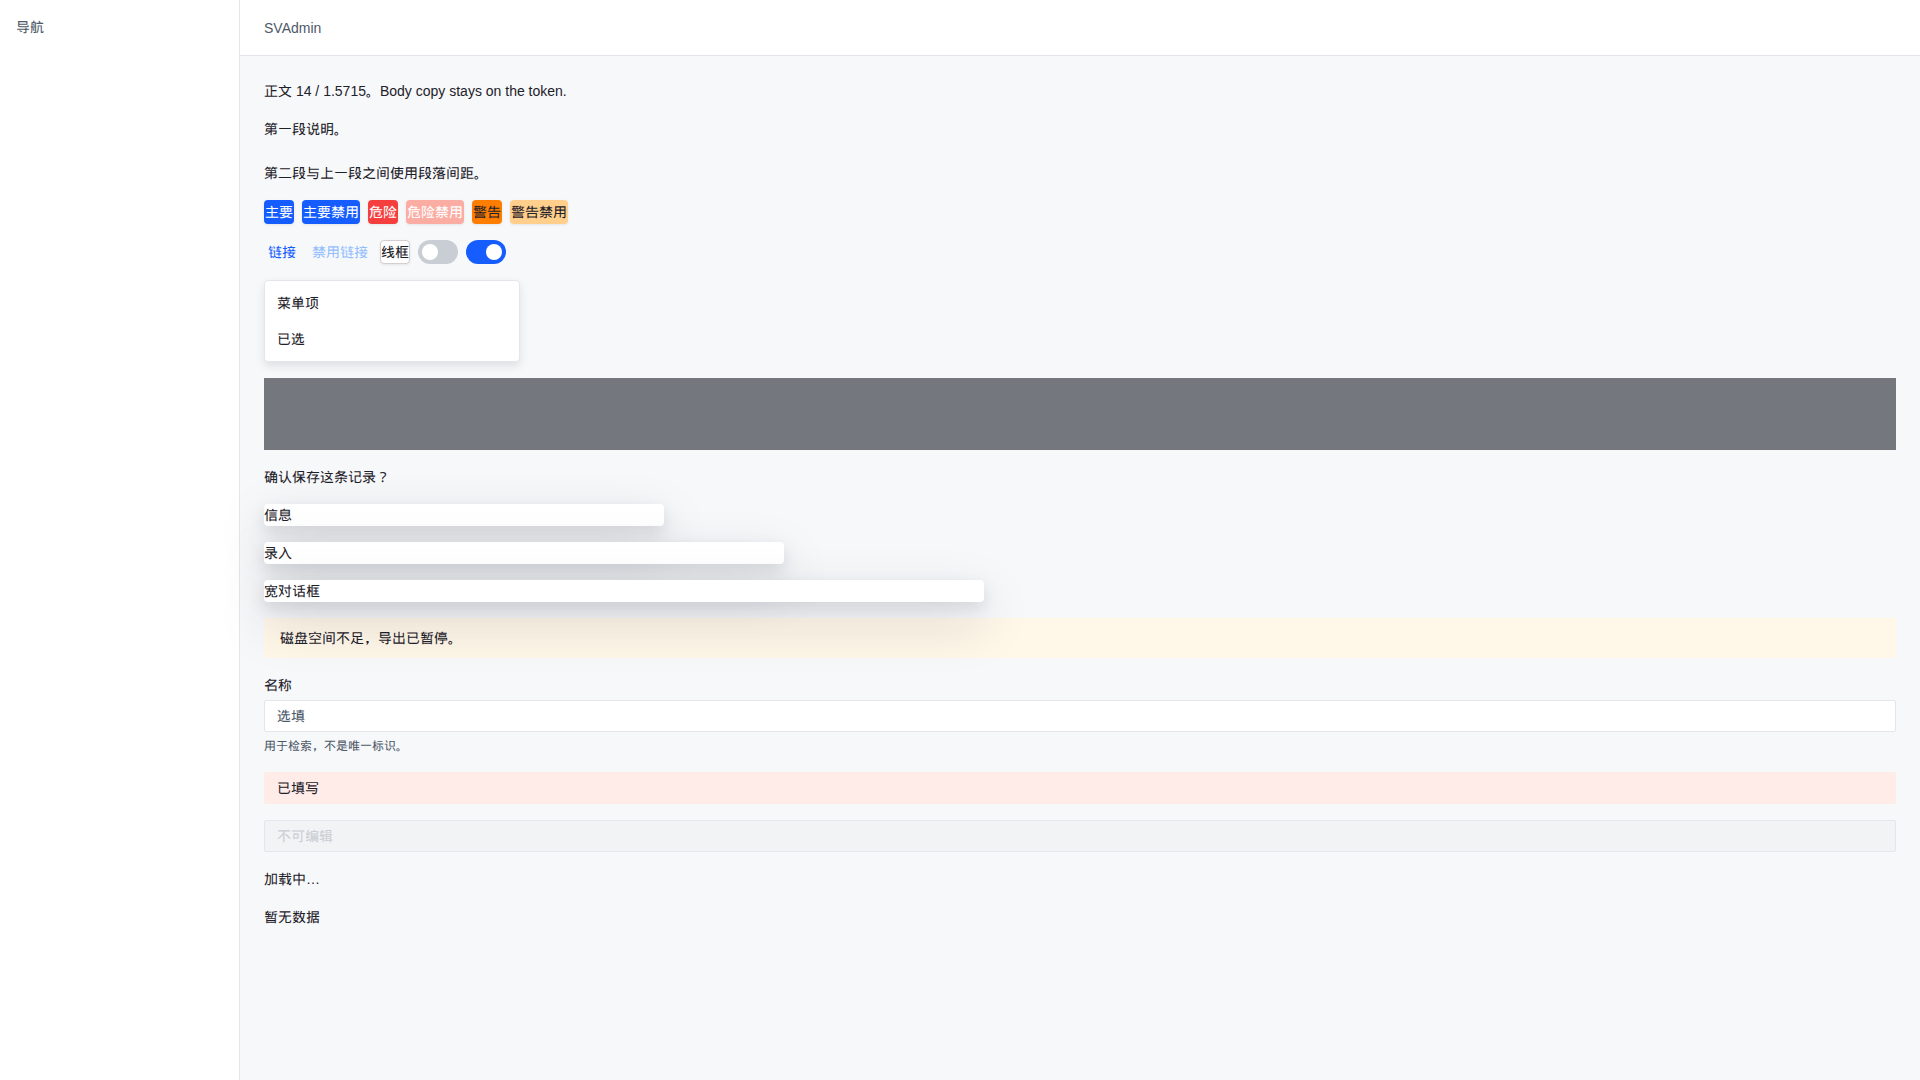
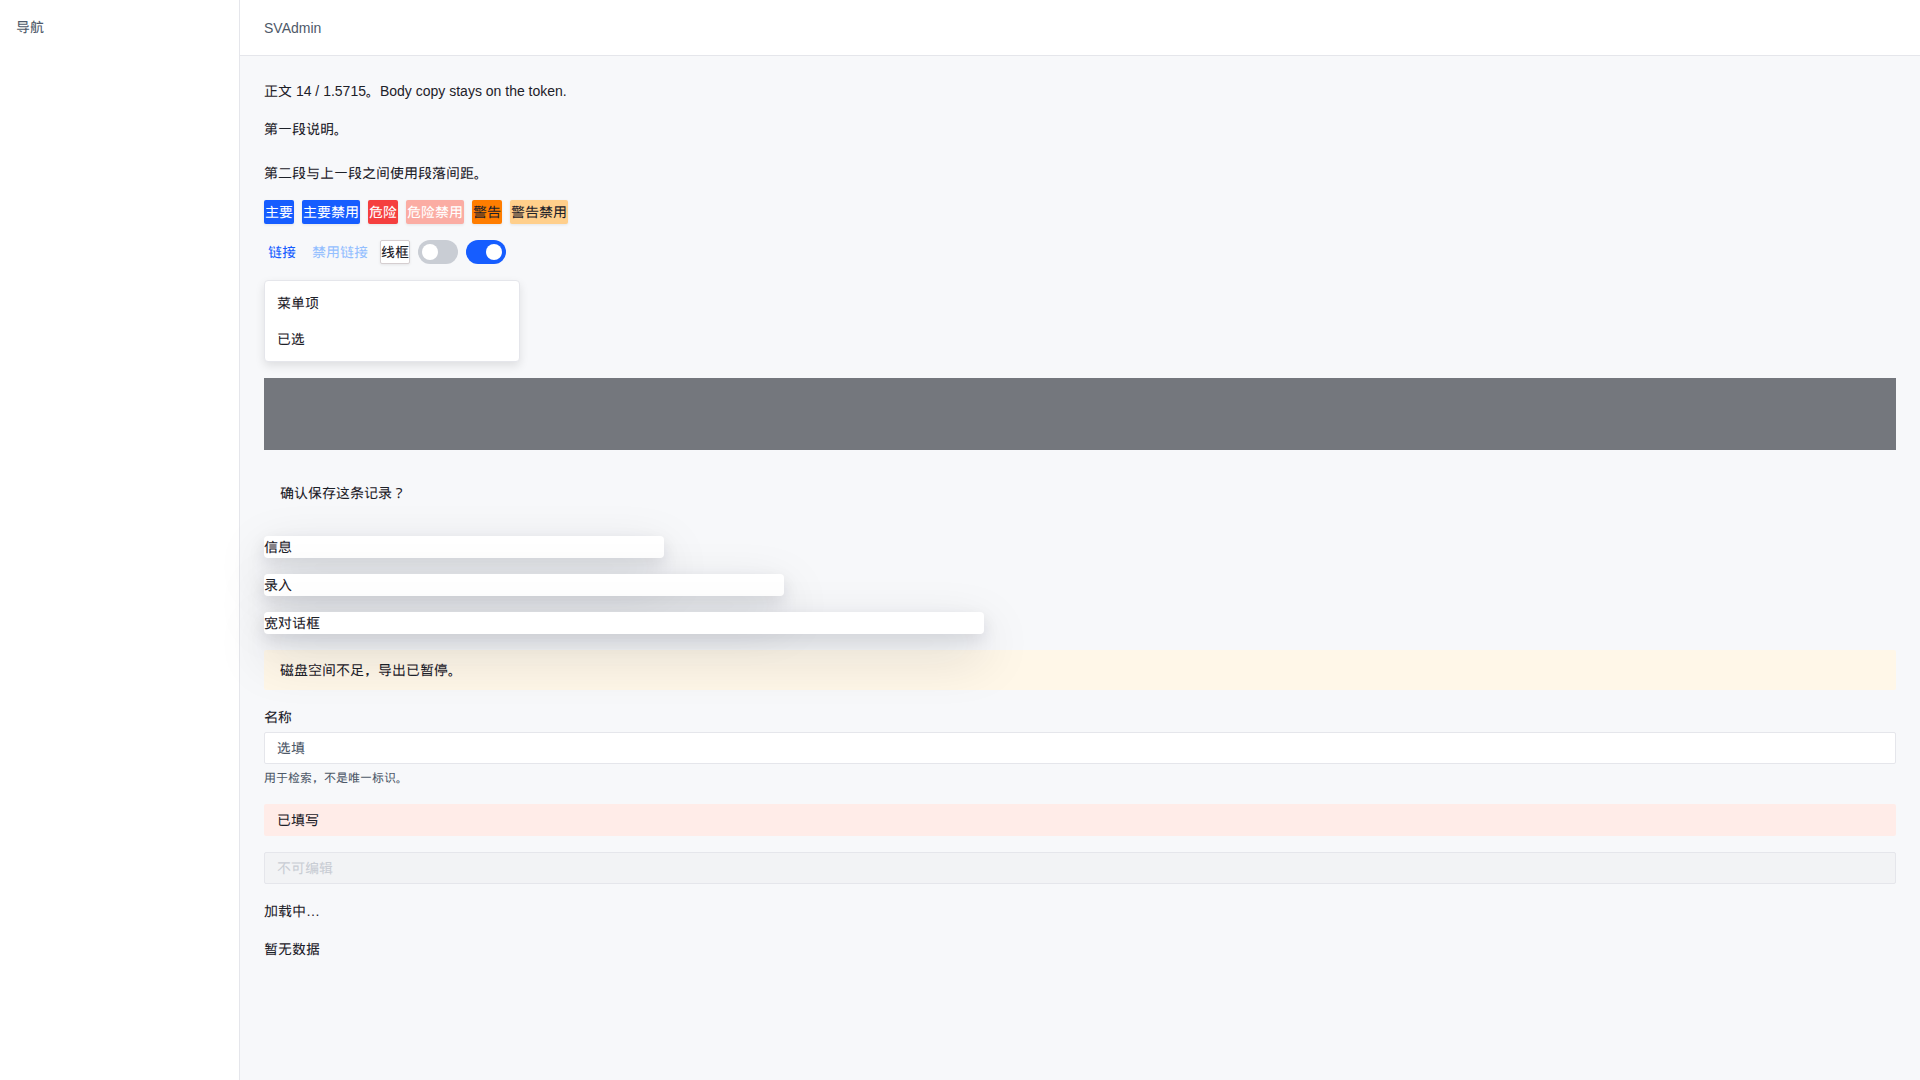
fix(ui): use the 2px control radius and remaining shared metrics
Default buttons and fields use the small radius, with official icon gaps,
drawer body padding, tree and collapse type, and 12px switch text.

Changed region(s): [[0.125, 0.4278, 0.5312, 0.8861]]

diff --git a/packages/ui/src/app.css b/packages/ui/src/app.css
@@ -830,9 +830,9 @@ h6,
   flex-shrink: 0;
   align-items: center;
   justify-content: center;
-  gap: 0.375rem;
+  gap: 8px;
   border: 1px solid transparent;
-  border-radius: var(--radius-sm);
+  border-radius: var(--border-radius-small, 2px);
   background-clip: padding-box;
   font-size: 0.875rem;
   /* Official button: weight 400, line-height 1.5715. */
@@ -1102,13 +1102,13 @@ h6,
 
 /* Official button padding: mini 11px, small and default 15px, large 19px. Heights stay 24/28/32/36. */
 :is([data-slot="button"], .svadmin-button):is([data-size="default"], .svadmin-button-size--default),
-:is([data-svadmin-button], .svadmin-button):is([data-size="default"], .svadmin-button-size--default) { min-height: var(--svadmin-control-h); padding: 0 15px; }
+:is([data-svadmin-button], .svadmin-button):is([data-size="default"], .svadmin-button-size--default) { min-height: var(--svadmin-control-h); padding: 0 15px; gap: 8px; }
 :is([data-slot="button"], .svadmin-button):is([data-size="xs"], .svadmin-button-size--xs),
-:is([data-svadmin-button], .svadmin-button):is([data-size="xs"], .svadmin-button-size--xs) { min-height: var(--svadmin-control-h-mini); padding: 0 11px; font-size: 12px; }
+:is([data-svadmin-button], .svadmin-button):is([data-size="xs"], .svadmin-button-size--xs) { min-height: var(--svadmin-control-h-mini); padding: 0 11px; font-size: 12px; gap: 4px; }
 :is([data-slot="button"], .svadmin-button):is([data-size="sm"], .svadmin-button-size--sm),
-:is([data-svadmin-button], .svadmin-button):is([data-size="sm"], .svadmin-button-size--sm) { min-height: var(--svadmin-control-h-sm); padding: 0 15px; font-size: 14px; }
+:is([data-svadmin-button], .svadmin-button):is([data-size="sm"], .svadmin-button-size--sm) { min-height: var(--svadmin-control-h-sm); padding: 0 15px; font-size: 14px; gap: 6px; }
 :is([data-slot="button"], .svadmin-button):is([data-size="lg"], .svadmin-button-size--lg),
-:is([data-svadmin-button], .svadmin-button):is([data-size="lg"], .svadmin-button-size--lg) { min-height: var(--svadmin-control-h-lg); padding: 0 19px; font-size: 14px; }
+:is([data-svadmin-button], .svadmin-button):is([data-size="lg"], .svadmin-button-size--lg) { min-height: var(--svadmin-control-h-lg); padding: 0 19px; font-size: 14px; gap: 8px; }
 :is([data-slot="button"], .svadmin-button):is([data-size="icon"], .svadmin-button-size--icon),
 :is([data-svadmin-button], .svadmin-button):is([data-size="icon"], .svadmin-button-size--icon) { width: var(--svadmin-control-h); height: var(--svadmin-control-h); }
 :is([data-slot="button"], .svadmin-button):is([data-size="icon-xs"], .svadmin-button-size--icon-xs),
@@ -1966,8 +1966,11 @@ main {
   flex: 1 1 auto;
   min-height: 0;
   flex-direction: column;
-  gap: 16px;
-  padding: 16px;
+  gap: 0;
+  padding: 0;
+}
+.svadmin-sheet-content > :not(.svadmin-sheet-header):not(.svadmin-sheet-footer) {
+  padding: 12px 16px;
 }
 
 /* Narrow screens use the full viewport for detail work and keep touch scrolling
@@ -2164,9 +2167,9 @@ main {
 .svadmin-result__subtitle { margin: 0; max-width: 36rem; color: var(--muted-foreground); font-size: 14px; line-height: 1.5715; }
 .svadmin-result__extra { display: flex; gap: 12px; margin-top: 20px; }
 
-.svadmin-popconfirm { display: grid; gap: 0.75rem; width: max-content; max-width: 20rem; }
-.svadmin-popconfirm__title { margin: 0; color: var(--foreground); font-size: 0.875rem; }
-.svadmin-popconfirm__actions { display: flex; justify-content: flex-end; gap: 0.5rem; }
+.svadmin-popconfirm { display: grid; gap: 16px; width: max-content; max-width: 20rem; padding: 16px; }
+.svadmin-popconfirm__title { margin: 0; color: var(--foreground); font-size: 0.875rem; line-height: 1.5715; }
+.svadmin-popconfirm__actions { display: flex; justify-content: flex-end; gap: 8px; }
 .svadmin-popconfirm__trigger { display: inline-flex; }
 
 .svadmin-back-top {
@@ -2183,13 +2186,13 @@ main {
 .svadmin-item-list__description { margin: 0.25rem 0 0; color: var(--muted-foreground); font-size: 0.75rem; }
 
 .svadmin-tree-root, .svadmin-tree { margin: 0; padding: 0; list-style: none; }
-.svadmin-tree .svadmin-tree { margin-inline-start: 1rem; }
+.svadmin-tree .svadmin-tree { margin-inline-start: 22px; }
 .svadmin-tree__toggle, .svadmin-tree__leaf {
   display: flex; align-items: center; min-height: var(--svadmin-control-h); width: 100%;
-  padding: 0 0.5rem; border: 0; border-radius: var(--radius-sm);
-  background: transparent; color: var(--foreground); font: inherit; font-size: 0.875rem; text-align: start;
+  padding: 5px 4px; border: 0; border-radius: var(--border-radius-small, 2px);
+  background: transparent; color: var(--foreground); font: inherit; font-size: var(--svadmin-text-body); text-align: start;
 }
-.svadmin-tree__toggle:hover { background: var(--muted); }
+.svadmin-tree__toggle:hover, .svadmin-tree__leaf:hover { background: var(--svadmin-fill-2, var(--muted)); color: var(--foreground); }
 
 .svadmin-textarea {
   width: 100%;
@@ -2910,6 +2913,9 @@ main {
   background: var(--primary);
 }
 
+.svadmin-checkbox:hover:not(:disabled) {
+  border-color: var(--svadmin-fill-4, var(--border));
+}
 .svadmin-checkbox:focus-visible {
   border-color: var(--ring);
   outline: var(--svadmin-focus-width) solid color-mix(in oklch, var(--ring) 48%, transparent);
@@ -3168,7 +3174,7 @@ main {
   margin-top: 0.375rem;
   overflow: hidden;
   border: 1px solid var(--border);
-  border-radius: 0.375rem;
+  border-radius: var(--border-radius-medium, var(--radius));
   background: var(--popover);
   color: var(--popover-foreground);
   box-shadow: var(--svadmin-shadow-popup, var(--svadmin-shadow-overlay));
@@ -3191,6 +3197,11 @@ main {
 .svadmin-popover-content[data-state="closed"] {
   opacity: 0;
   transform: scale(0.95);
+}
+
+.svadmin-popover-content.svadmin-popconfirm {
+  padding: 16px;
+  gap: 16px;
 }
 
 .svadmin-avatar-image {
@@ -3675,14 +3686,14 @@ details[data-svadmin-filter] > summary,
   display: flex;
   align-items: center;
   gap: 0.375rem;
-  min-height: 2rem;
+  min-height: 40px;
   margin: 0;
-  padding: 0.25rem 0;
+  padding: 8px 0;
   list-style: none;
   cursor: pointer;
-  font-size: 0.8125rem;
+  font-size: var(--svadmin-text-body);
   font-weight: 500;
-  line-height: 1.25rem;
+  line-height: 24px;
 }
 
 details.svadmin-collapsible > summary::-webkit-details-marker,
@@ -4336,8 +4347,8 @@ details[data-svadmin-filter][open] > :not(summary),
 .svadmin-evidence-card__body {
   margin-top: 0.75rem;
   color: var(--svadmin-text, var(--foreground));
-  font-size: 0.8125rem;
-  line-height: 1.5;
+  font-size: var(--svadmin-text-body);
+  line-height: var(--svadmin-leading-body);
 }
 
 .svadmin-evidence-card__source {
@@ -4487,7 +4498,7 @@ details[data-svadmin-filter][open] > :not(summary),
   background: color-mix(in oklch, var(--activity-tone) 15%, transparent);
   color: var(--activity-text);
   padding: 0 0.25rem;
-  font-size: 0.625rem;
+  font-size: var(--svadmin-text-caption);
 }
 .svadmin-activity-feed :is([data-slot="badge"], .svadmin-badge)[data-status="success"] { --activity-tone: var(--success); --activity-text: var(--success); }
 .svadmin-activity-feed :is([data-slot="badge"], .svadmin-badge)[data-status="warning"] { --activity-tone: var(--warning); --activity-text: var(--warning-foreground); }
@@ -5379,7 +5390,7 @@ html.layout-clean-flat[data-theme="default"] body {
 }
 
 .layout-clean-flat[data-theme="default"] :is([data-slot="button"], .svadmin-button) {
-  border-radius: var(--radius);
+  border-radius: var(--border-radius-small, 2px);
   box-shadow: var(--svadmin-control-shadow);
   font-weight: 400;
   transition: transform 100ms cubic-bezier(0, 0, 1, 1), box-shadow 100ms cubic-bezier(0, 0, 1, 1), background-color 100ms cubic-bezier(0, 0, 1, 1), border-color 100ms cubic-bezier(0, 0, 1, 1);
@@ -5415,7 +5426,7 @@ html.layout-clean-flat[data-theme="default"] body {
 .layout-clean-flat[data-theme="default"] [data-slot="textarea"],
 .layout-clean-flat[data-theme="default"] [data-slot="select"],
 .layout-clean-flat[data-theme="default"] [data-slot="select-trigger"] {
-  border-radius: var(--radius-sm);
+  border-radius: var(--border-radius-small, 2px);
   background: var(--card);
   box-shadow: var(--svadmin-control-shadow);
 }

diff --git a/packages/ui/src/visual-contract-remainder.test.ts b/packages/ui/src/visual-contract-remainder.test.ts
@@ -157,6 +157,9 @@ describe('Remaining visual style contract', () => {
     expect(css).toContain('--color-link-light-3: var(--primary-light-3);');
     expect(css).toContain('--color-neutral-8: var(--muted-foreground);');
     expect(css).toContain('--border-radius-small: 2px;');
+    expect(css).toContain('border-radius: var(--border-radius-small, 2px);');
+    expect(rule('.svadmin-checkbox:hover:not(:disabled)')).toContain('var(--svadmin-fill-4, var(--border))');
+    expect(rule('.svadmin-sheet-content > :not(.svadmin-sheet-header):not(.svadmin-sheet-footer)')).toContain('padding: 12px 16px');
     expect(css).toContain('--color-tooltip-bg: #1D2129;');
     expect(css).toContain('--svadmin-shadow-notification: 0 4px 12px rgb(0 0 0 / 0.15);');
     expect(rule('.svadmin-link[aria-disabled="true"]')).toContain('var(--color-link-light-3, var(--primary-light-3))');

diff --git a/packages/ui/src/components/Collapse.svelte b/packages/ui/src/components/Collapse.svelte
@@ -140,6 +140,8 @@
     gap: var(--svadmin-space-2);
     width: 100%;
     padding: 8px 13px;
+    font-size: var(--svadmin-text-body);
+    line-height: 24px;
     border: 0;
     background: var(--card);
     color: var(--foreground);
@@ -161,7 +163,8 @@
     grid-template-rows: 0fr;
     border-block-start: 1px solid transparent;
     color: var(--muted-foreground);
-    font-size: var(--svadmin-text-label);
+    font-size: var(--svadmin-text-body);
+    line-height: var(--svadmin-leading-body);
     transition:
       grid-template-rows var(--svadmin-motion-standard) var(--svadmin-motion-easing),
       border-color var(--svadmin-motion-standard) var(--svadmin-motion-easing);

diff --git a/packages/ui/src/components/ui/switch/switch.svelte b/packages/ui/src/components/ui/switch/switch.svelte
@@ -51,7 +51,7 @@
 	{...restProps}
 >
 	{#if checkedText || uncheckedText}
-		<span class={cn("svadmin-switch-text text-[10px] font-semibold select-none leading-none", checked ? "pl-2 pr-6 text-primary-foreground" : "pl-6 pr-2 text-muted-foreground")}>
+		<span class={cn("svadmin-switch-text text-xs font-medium select-none leading-none", checked ? "pl-2 pr-6 text-primary-foreground" : "pl-6 pr-2 text-muted-foreground")}>
 			{checked ? (checkedText ?? "") : (uncheckedText ?? "")}
 		</span>
 	{/if}

diff --git a/docs/components/theming.md b/docs/components/theming.md
@@ -364,7 +364,8 @@ Shared control states read the same tokens in every brand preset. Extra names ar
 - `--color-neutral-1` through `--color-neutral-10`, `--border-radius-small` (2px) through `--border-radius-large` (8px), `--color-tooltip-bg`, `--color-spin-layer-bg`, and `--color-bg-popup` are available to host CSS.
 - `--svadmin-shadow-notification` is `0 4px 12px rgb(0 0 0 / 0.15)`. Dialogs keep `--svadmin-shadow-overlay`. Menus, popovers, and dropdowns keep `--svadmin-shadow-popup`.
 - Invalid inputs use the danger light fill and no extra halo. The focus ring stays a 2px outline with a 2px offset.
-- The switch track is fill-4, 40×24, with a 16px thumb. Small is 28×16 with a 12px thumb. The thumb does not use the dialog shadow.
+- The switch track is fill-4, 40×24, with a 16px thumb. Small is 28×16 with a 12px thumb. The thumb does not use the dialog shadow. Optional switch text is 12px and the loading spinner stays inside the thumb.
+- Default-skin buttons and fields use the 2px small radius. Cards stay at the 4px product radius. Default icon spacing is 8px, small is 6px, and mini is 4px.
 - Tooltip surfaces use `--color-tooltip-bg` and white text. Dropdown hover is fill-2 with text-1.
 - Outline buttons keep a neutral border at rest. Hover and press use color-5 and color-7 on the shared button rule. Stripe canvas colors stay on `[data-theme="stripe"]`.
 
